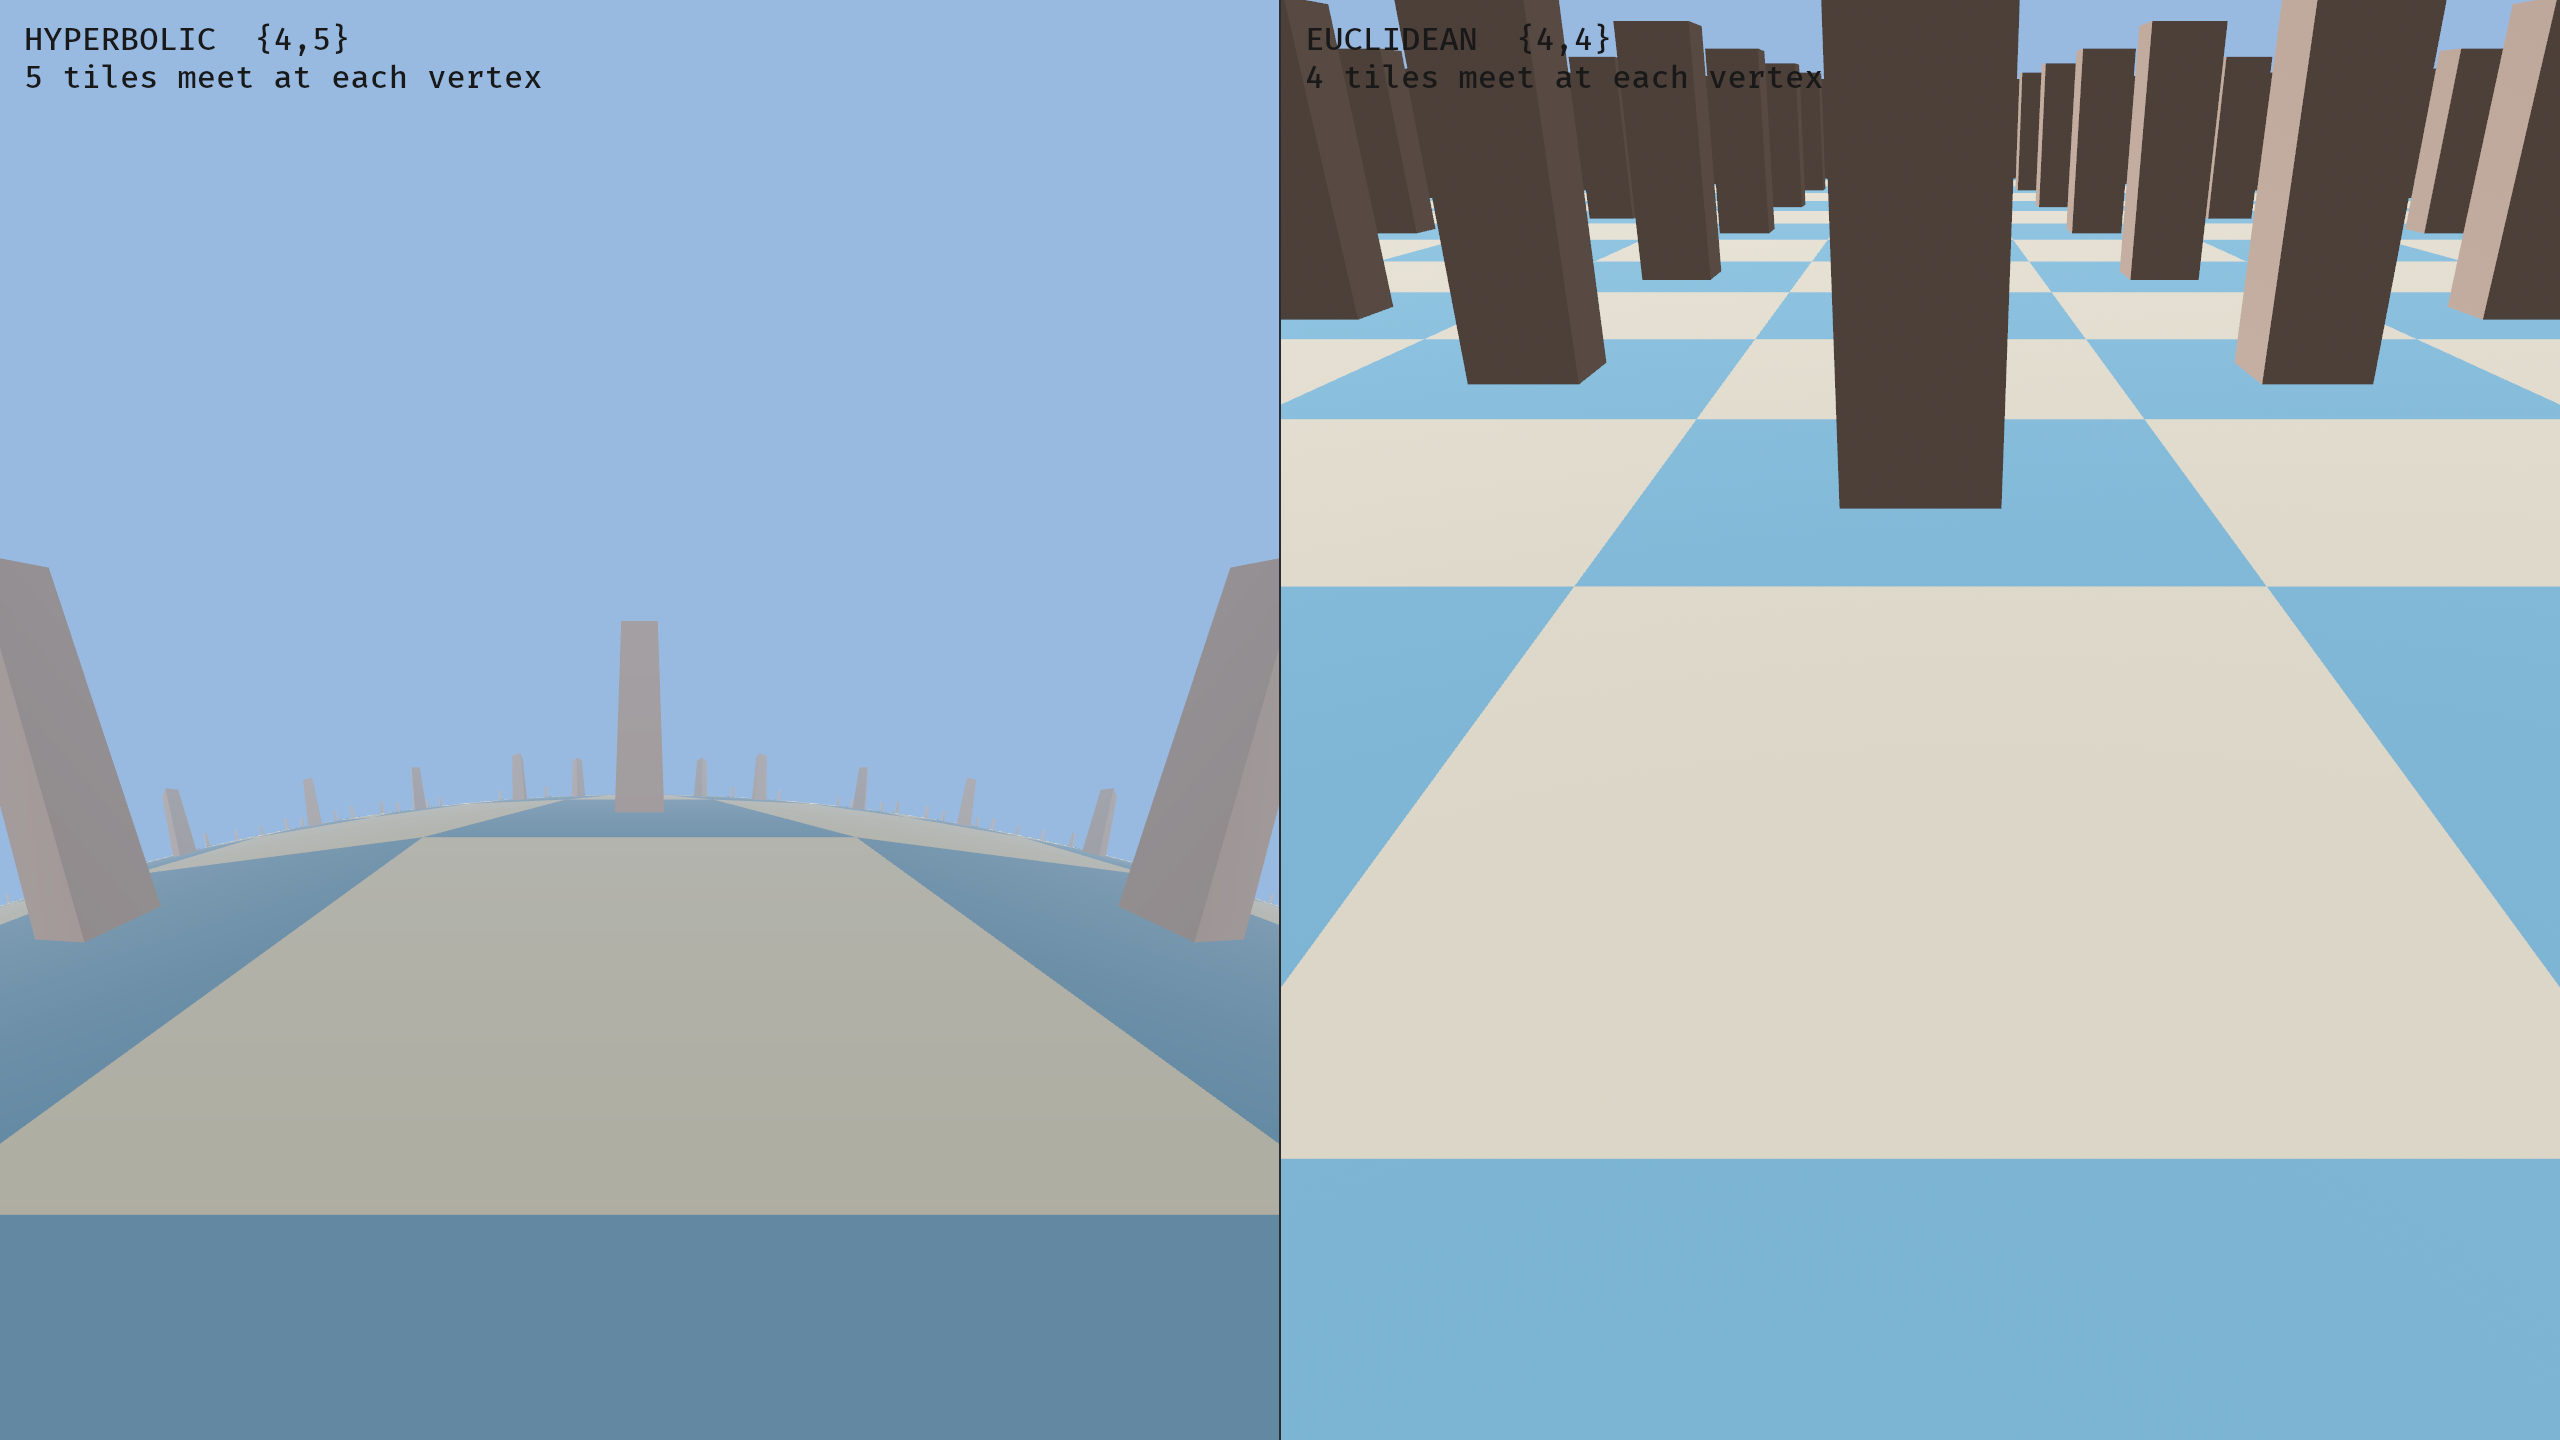
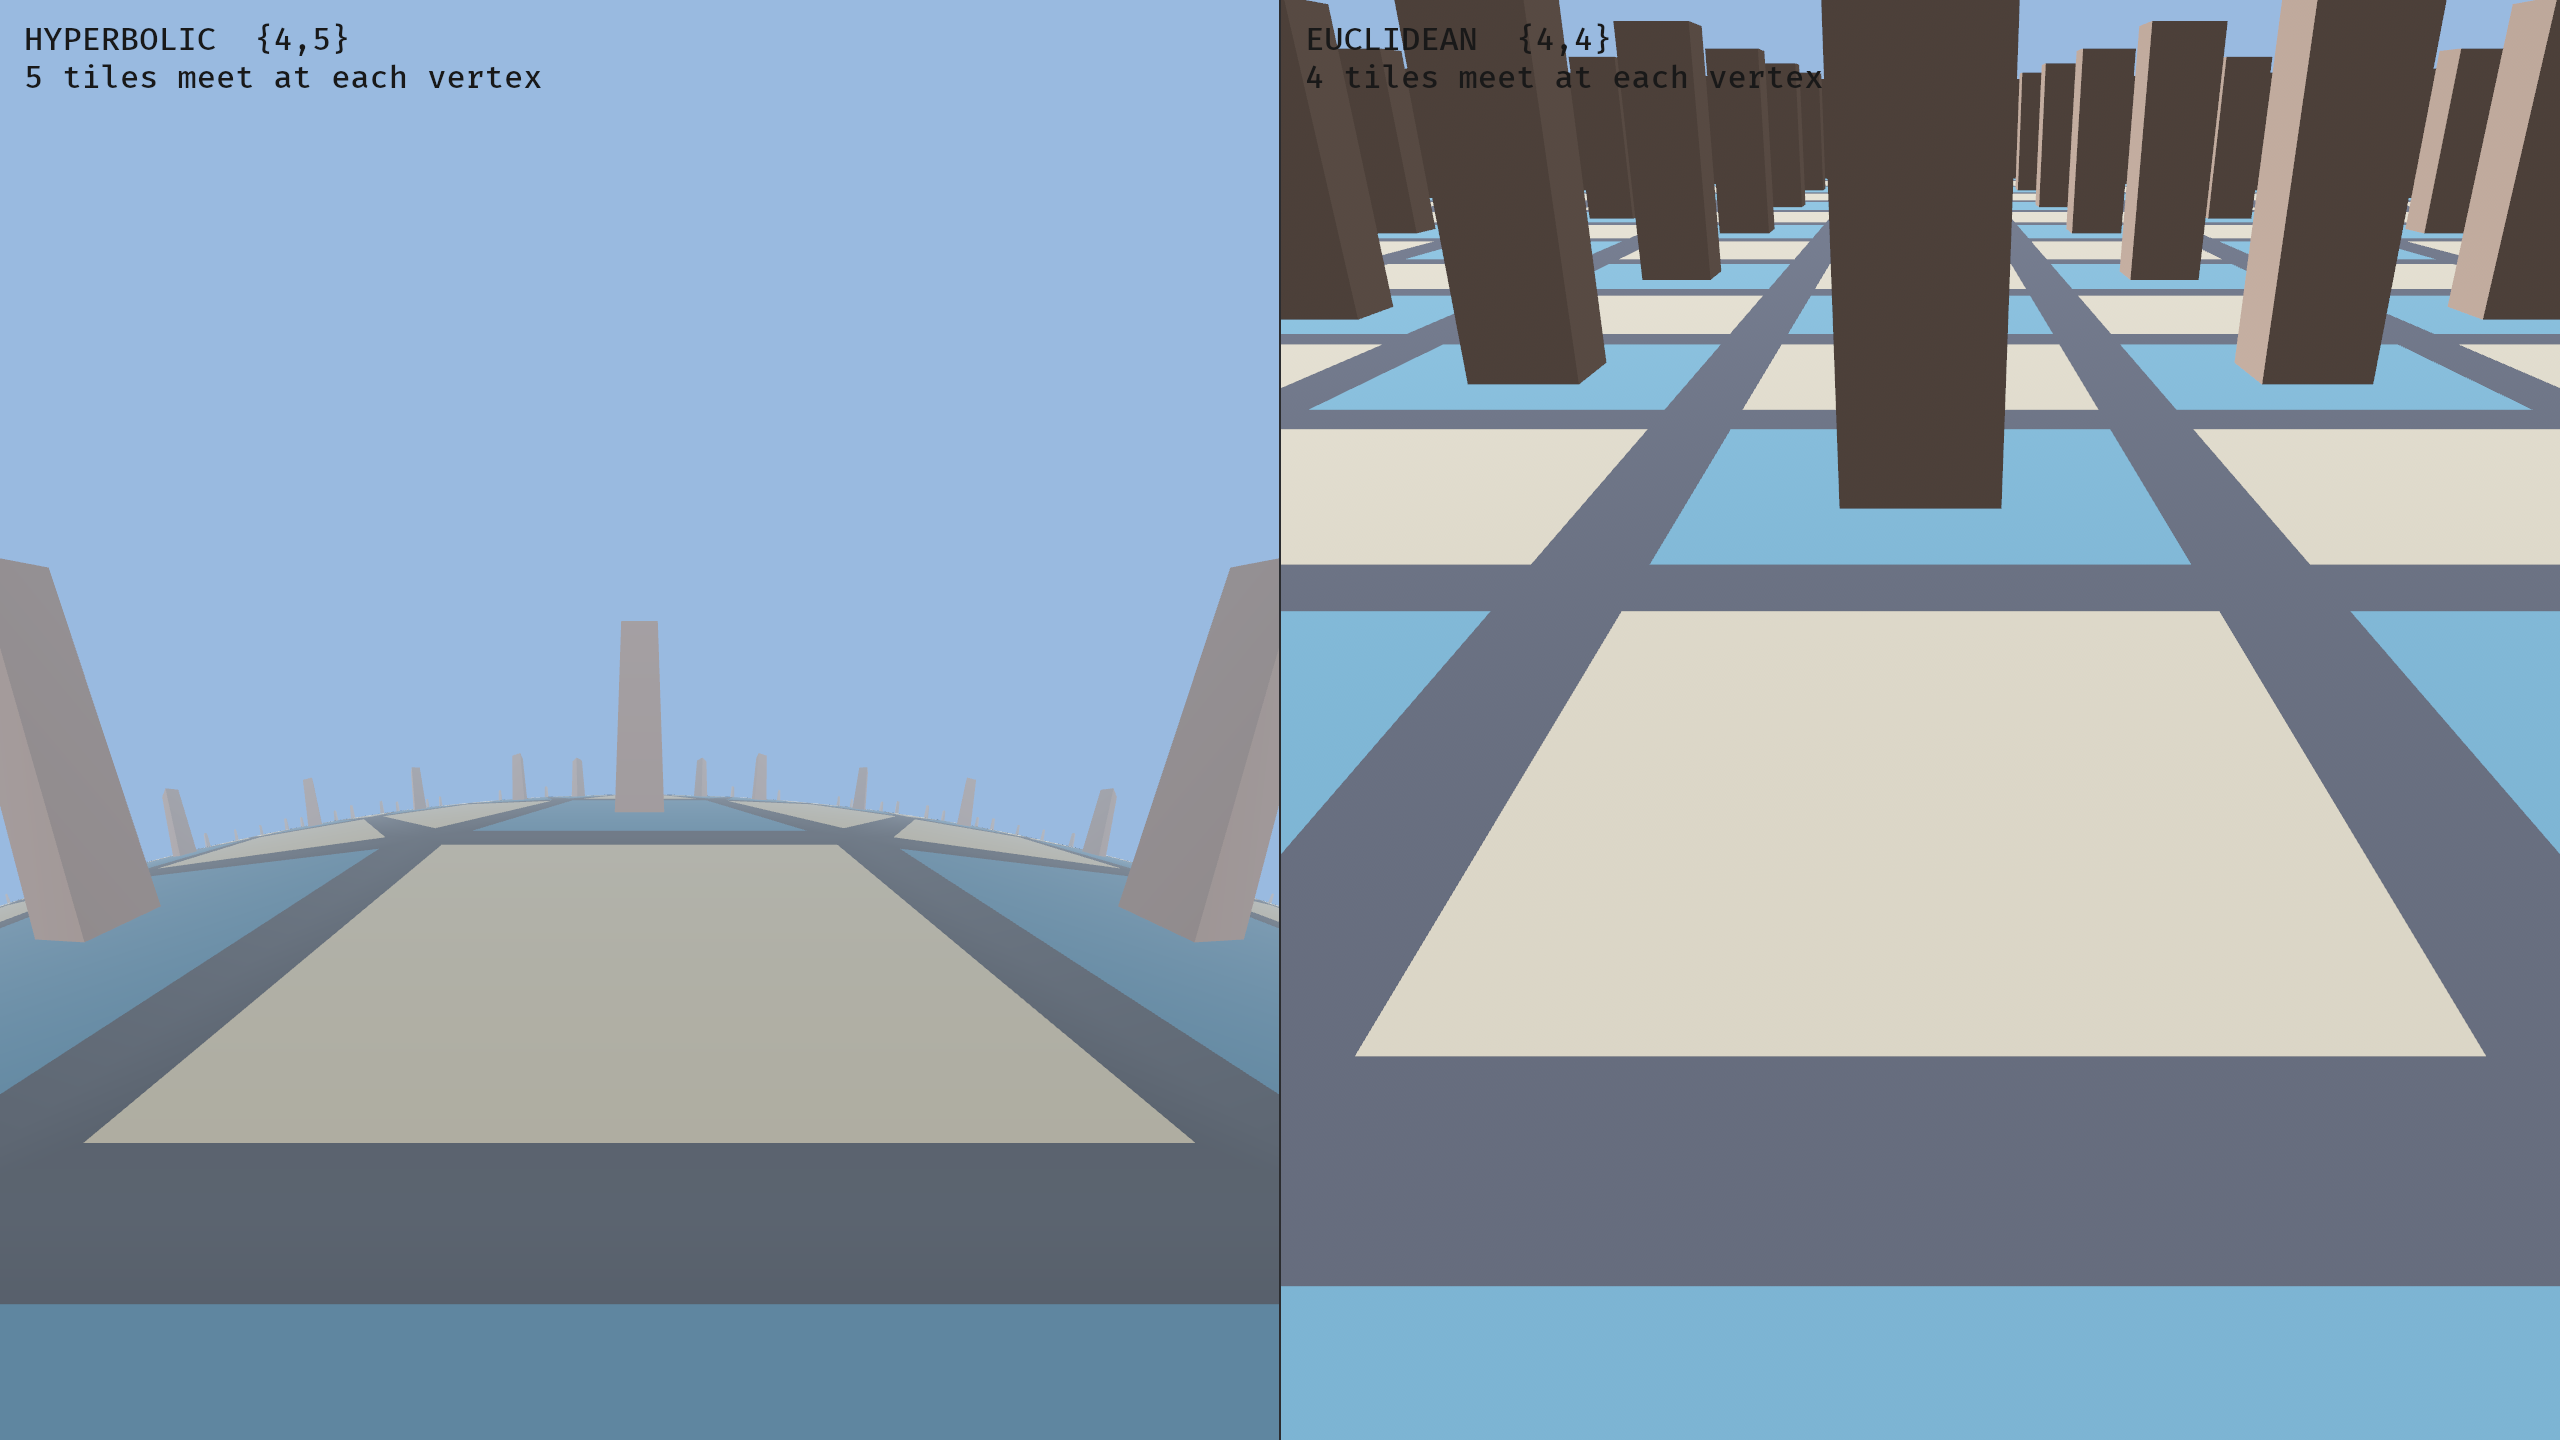
Outline every floor tile with a dark border
Ring-parity coloring leaves many adjacent same-color tiles, which blurred
together into one shape. Draw each tile as a dark "grout" ring (between the tile
edge and an inset inner polygon) plus the colored inner fill, on both the
hyperbolic and Euclidean floors. The ring is coplanar with the fill so there's
no z-fighting.

Changed region(s): [[0.0, 0.125, 1.0, 0.9062], [0.9375, 0.1562, 0.9688, 0.1875], [0.5312, 0.1562, 0.5625, 0.1875]]

diff --git a/src/world.rs b/src/world.rs
@@ -30,6 +30,12 @@ const PILLAR_HEIGHT: f32 = 0.9;
 /// Half-size (circumradius) of a pillar's square cross-section.
 const PILLAR_RADIUS: f32 = 0.14;
 
+/// Fraction of a tile (toward its center) kept as colored fill; the rest is the
+/// dark border "grout" that outlines every tile.
+const TILE_INSET: f32 = 0.82;
+/// Border / grout color.
+const GROUT: [f32; 4] = [0.05, 0.06, 0.09, 1.0];
+
 /// Inradius (center → edge midpoint) and circumradius (center → vertex) of a
 /// regular {P,Q} tile, from the right-triangle relations of the (2,P,Q) triangle.
 fn tile_radii() -> (f32, f32) {
@@ -117,6 +123,17 @@ impl MeshBuilder {
         }
     }
 
+    /// Draw a polygon with a dark border: a `border`-colored ring between the
+    /// `outer` and `inner` rings, then the `inner` polygon in `fill`.
+    fn bordered(&mut self, outer: &[Vec4], inner: &[Vec4], fill: [f32; 4], border: [f32; 4]) {
+        let n = outer.len();
+        for k in 0..n {
+            let m = (k + 1) % n;
+            self.polygon(&[outer[k], outer[m], inner[m], inner[k]], border);
+        }
+        self.polygon(inner, fill);
+    }
+
     fn build(self) -> Mesh {
         let mut mesh = Mesh::new(
             PrimitiveTopology::TriangleList,
@@ -142,16 +159,21 @@ pub fn build_world_mesh() -> Mesh {
     let floor_b = [0.80, 0.74, 0.55, 1.0];
 
     for (m, ring) in &tiles {
-        // Corners of the regular P-gon, at the circumradius.
-        let corners: Vec<Vec4> = (0..P)
-            .map(|k| {
-                let a = PI / P as f32 + k as f32 * 2.0 * PI / P as f32;
-                *m * h::floor_point(circumradius, a)
-            })
-            .collect();
+        // Outer corners at the circumradius; inner corners pulled toward the
+        // tile center to leave room for the border.
+        let corner = |r: f32| -> Vec<Vec4> {
+            (0..P)
+                .map(|k| {
+                    let a = PI / P as f32 + k as f32 * 2.0 * PI / P as f32;
+                    *m * h::floor_point(r, a)
+                })
+                .collect()
+        };
+        let outer = corner(circumradius);
+        let inner = corner(circumradius * TILE_INSET);
 
         let base = if ring % 2 == 0 { floor_a } else { floor_b };
-        b.polygon(&corners, base);
+        b.bordered(&outer, &inner, base, GROUT);
 
         // Put a pillar on every other tile so the world has vertical structure
         // and parallax without becoming a forest. Skip the origin tile so the
@@ -208,22 +230,28 @@ pub fn build_euclidean_mesh() -> Mesh {
             let (x, z) = (i as f32, j as f32);
             let even = (i + j).rem_euclid(2) == 0;
 
-            // Floor tile (unit square, normal up).
+            // Floor tile (unit square, normal up) with a dark border ring.
             let color = if even { floor_a } else { floor_b };
-            push_quad(
-                &mut pos,
-                &mut nor,
-                &mut col,
-                &mut idx,
-                [
-                    Vec3::new(x - 0.5, 0.0, z - 0.5),
-                    Vec3::new(x - 0.5, 0.0, z + 0.5),
-                    Vec3::new(x + 0.5, 0.0, z + 0.5),
-                    Vec3::new(x + 0.5, 0.0, z - 0.5),
-                ],
-                Vec3::Y,
-                color,
-            );
+            let o = 0.5; // outer half-size
+            let n = 0.5 * TILE_INSET; // inner half-size
+            let outer = [
+                Vec3::new(x - o, 0.0, z - o),
+                Vec3::new(x - o, 0.0, z + o),
+                Vec3::new(x + o, 0.0, z + o),
+                Vec3::new(x + o, 0.0, z - o),
+            ];
+            let inner = [
+                Vec3::new(x - n, 0.0, z - n),
+                Vec3::new(x - n, 0.0, z + n),
+                Vec3::new(x + n, 0.0, z + n),
+                Vec3::new(x + n, 0.0, z - n),
+            ];
+            for k in 0..4 {
+                let m = (k + 1) % 4;
+                push_quad(&mut pos, &mut nor, &mut col, &mut idx,
+                    [outer[k], outer[m], inner[m], inner[k]], Vec3::Y, GROUT);
+            }
+            push_quad(&mut pos, &mut nor, &mut col, &mut idx, inner, Vec3::Y, color);
 
             // Pillar on even tiles (skip the origin where the player spawns).
             if even && !(i == 0 && j == 0) {